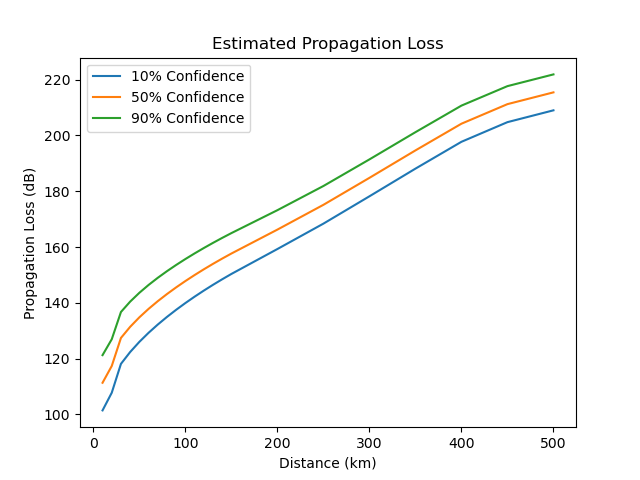
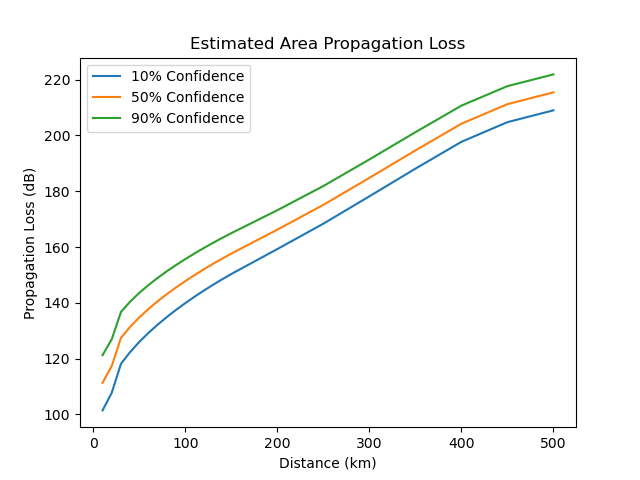
Update vis title

Changed region(s): [[0.2812, 0.0625, 0.7188, 0.125]]

diff --git a/vis/vis.py b/vis/vis.py
@@ -35,7 +35,7 @@ def plot_area_results(path):
     ax.set_xlabel("Distance (km)")
     ax.set_ylabel("Propagation Loss (dB)")
     ax.legend(["10% Confidence", "50% Confidence", "90% Confidence"])
-    plt.title('Estimated Propagation Loss')
+    plt.title('Estimated Area Propagation Loss')
     path_output = os.path.join(BASE_PATH, '..', 'vis', 'figures', 'area_results.png')
     plt.savefig(path_output)
 
